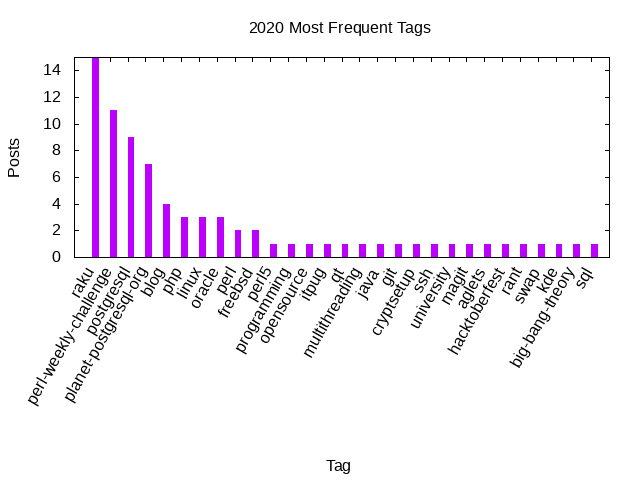
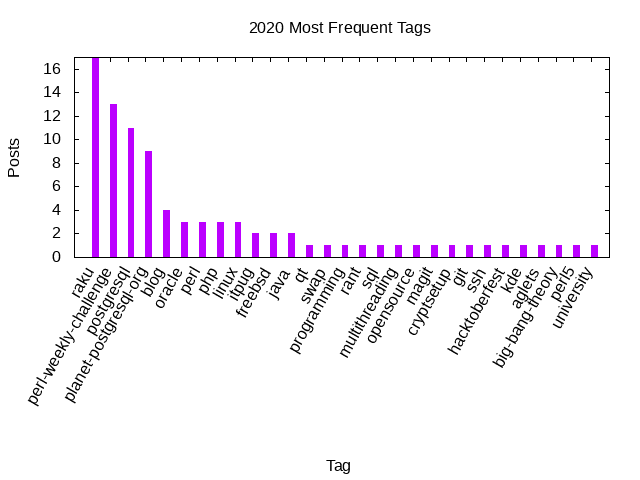
Update stats

diff --git a/_includes/stats/2020.md b/_includes/stats/2020.md
@@ -1,38 +1,38 @@
 ## 2020 (work in progress)
 
-**36 total posts** have been written on 2020.
+**40 total posts** have been written on 2020.
 There have been *29 different tags* used, the most
 used popular being (in order of number of posts):
  
-- *raku* (15 posts)  
-- *perl-weekly-challenge* (11 posts)  
-- *postgresql* (9 posts)  
-- *planet-postgresql-org* (7 posts)  
+- *raku* (17 posts)  
+- *perl-weekly-challenge* (13 posts)  
+- *postgresql* (11 posts)  
+- *planet-postgresql-org* (9 posts)  
 - *blog* (4 posts)  
+- *oracle* (3 posts)  
+- *perl* (3 posts)  
 - *php* (3 posts)  
 - *linux* (3 posts)  
-- *oracle* (3 posts)  
-- *perl* (2 posts)  
+- *itpug* (2 posts)  
 - *freebsd* (2 posts)  
-- *perl5* (1 posts)  
-- *programming* (1 posts)  
-- *opensource* (1 posts)  
-- *itpug* (1 posts)  
+- *java* (2 posts)  
 - *qt* (1 posts)  
-- *multithreading* (1 posts)  
-- *java* (1 posts)  
-- *git* (1 posts)  
-- *cryptsetup* (1 posts)  
-- *ssh* (1 posts)  
-- *university* (1 posts)  
-- *magit* (1 posts)  
-- *aglets* (1 posts)  
-- *hacktoberfest* (1 posts)  
-- *rant* (1 posts)  
 - *swap* (1 posts)  
+- *programming* (1 posts)  
+- *rant* (1 posts)  
+- *sql* (1 posts)  
+- *multithreading* (1 posts)  
+- *opensource* (1 posts)  
+- *magit* (1 posts)  
+- *cryptsetup* (1 posts)  
+- *git* (1 posts)  
+- *ssh* (1 posts)  
+- *hacktoberfest* (1 posts)  
 - *kde* (1 posts)  
+- *aglets* (1 posts)  
 - *big-bang-theory* (1 posts)  
-- *sql* (1 posts).<br/>
+- *perl5* (1 posts)  
+- *university* (1 posts).<br/>
 <br/>
 The following is the overall 2020 post ratio by month:
 <br/>
@@ -51,7 +51,7 @@ The following is the overall 2020 post ratio by tag (showing max 30 tags):
 
 <div align="right">
 <small>
-Last generated on 2020-03-23 at 13:52
+Last generated on 2020-04-09 at 17:18
 </small>
 </div>
 
